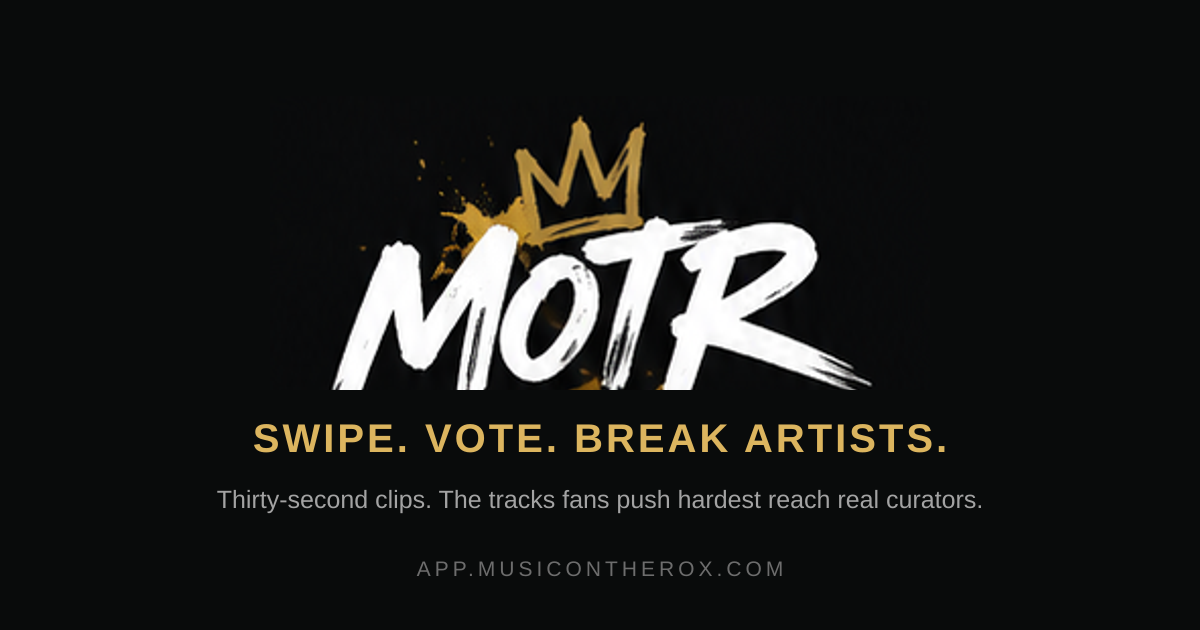
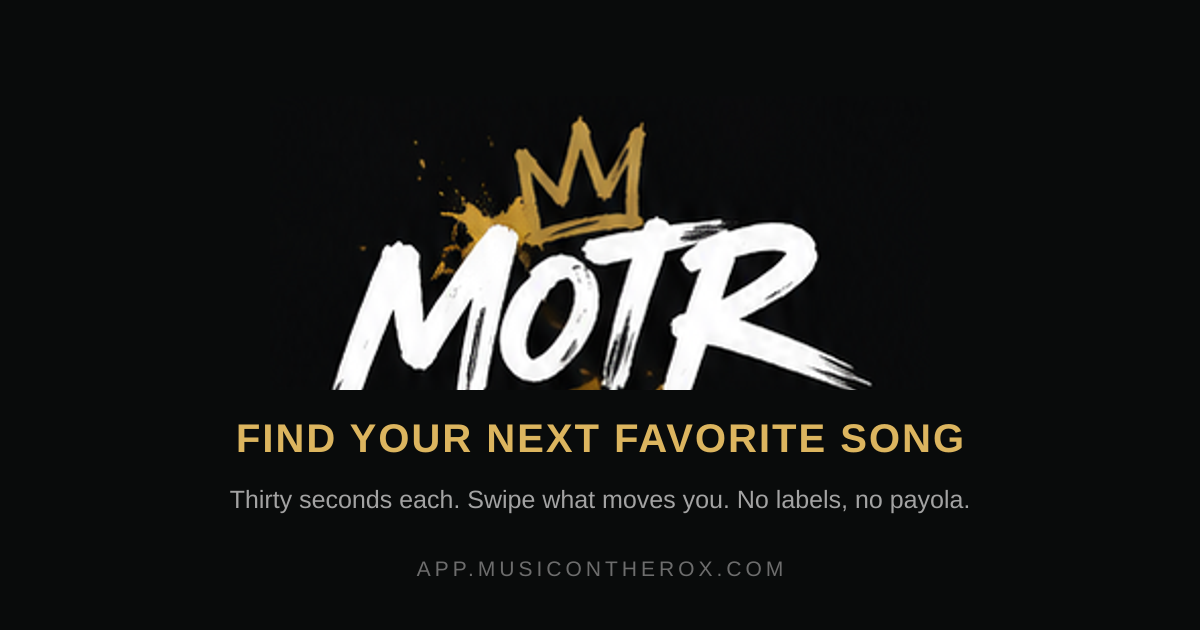
Reword the share image
"Break artists" is industry shorthand for helping an artist break through,
but read cold — which is how anyone sees a link on social — it sounds like
harming them. Replaced with the line already used on the sign-in screen,
which says what a listener gets rather than what the industry calls it.

Changed region(s): [[0.185, 0.6635, 0.8017, 0.7238], [0.185, 0.754, 0.8325, 0.8143]]

diff --git a/client/app/layout.tsx b/client/app/layout.tsx
@@ -40,7 +40,7 @@ export const metadata: Metadata = {
         url: "/og-image.png",
         width: 1200,
         height: 630,
-        alt: "MOTR — swipe, vote, break artists",
+        alt: "MOTR — find your next favorite song",
       },
     ],
   },
